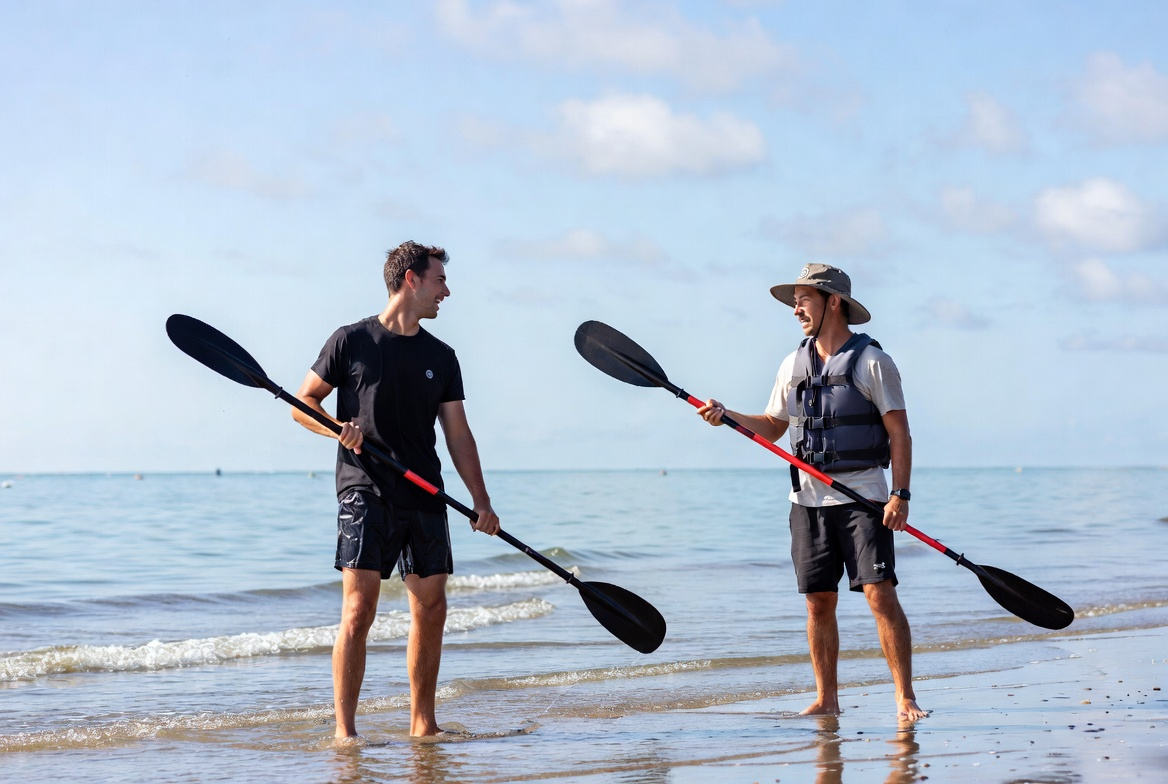
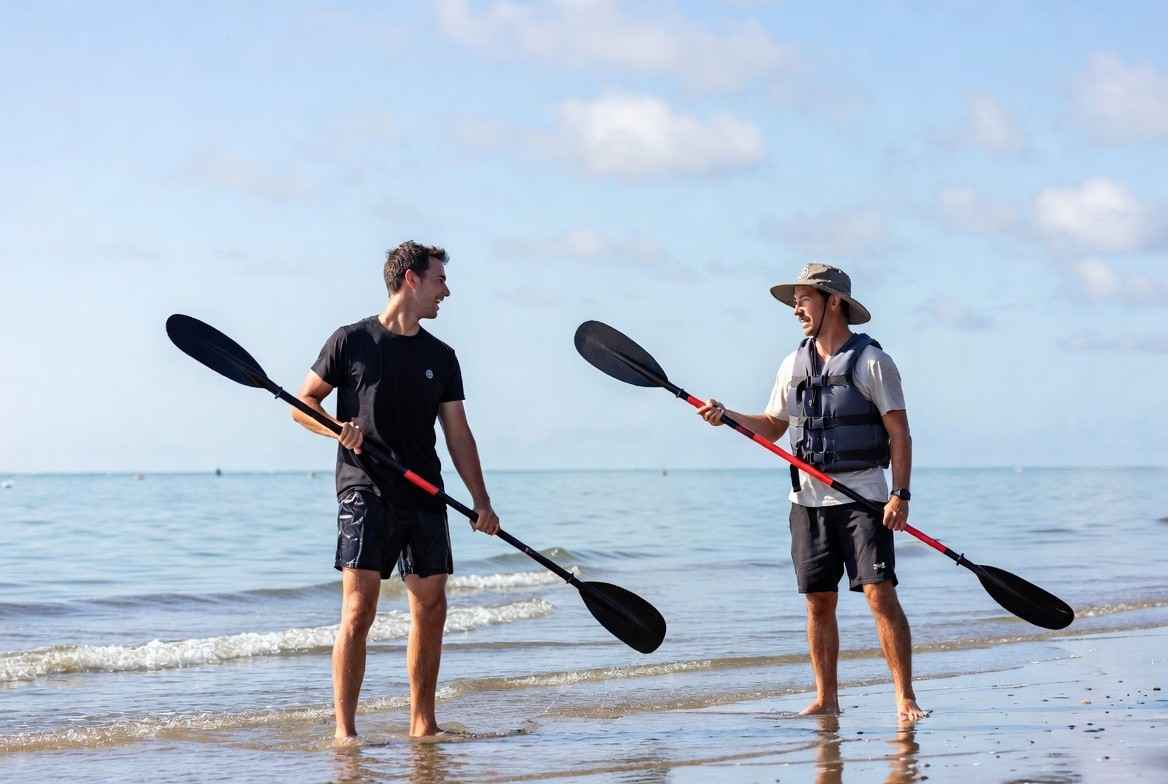
Add files via upload

diff --git a/index.html b/index.html
@@ -463,7 +463,7 @@
         </div>
       </div>
       <div class="col-lg-6">
-        <img src="img/bagus1.webp"
+        <img src="img/bagus1.jpg"
      class="keunggulan-img"
      alt="Outbound pantai"
      width="600"
